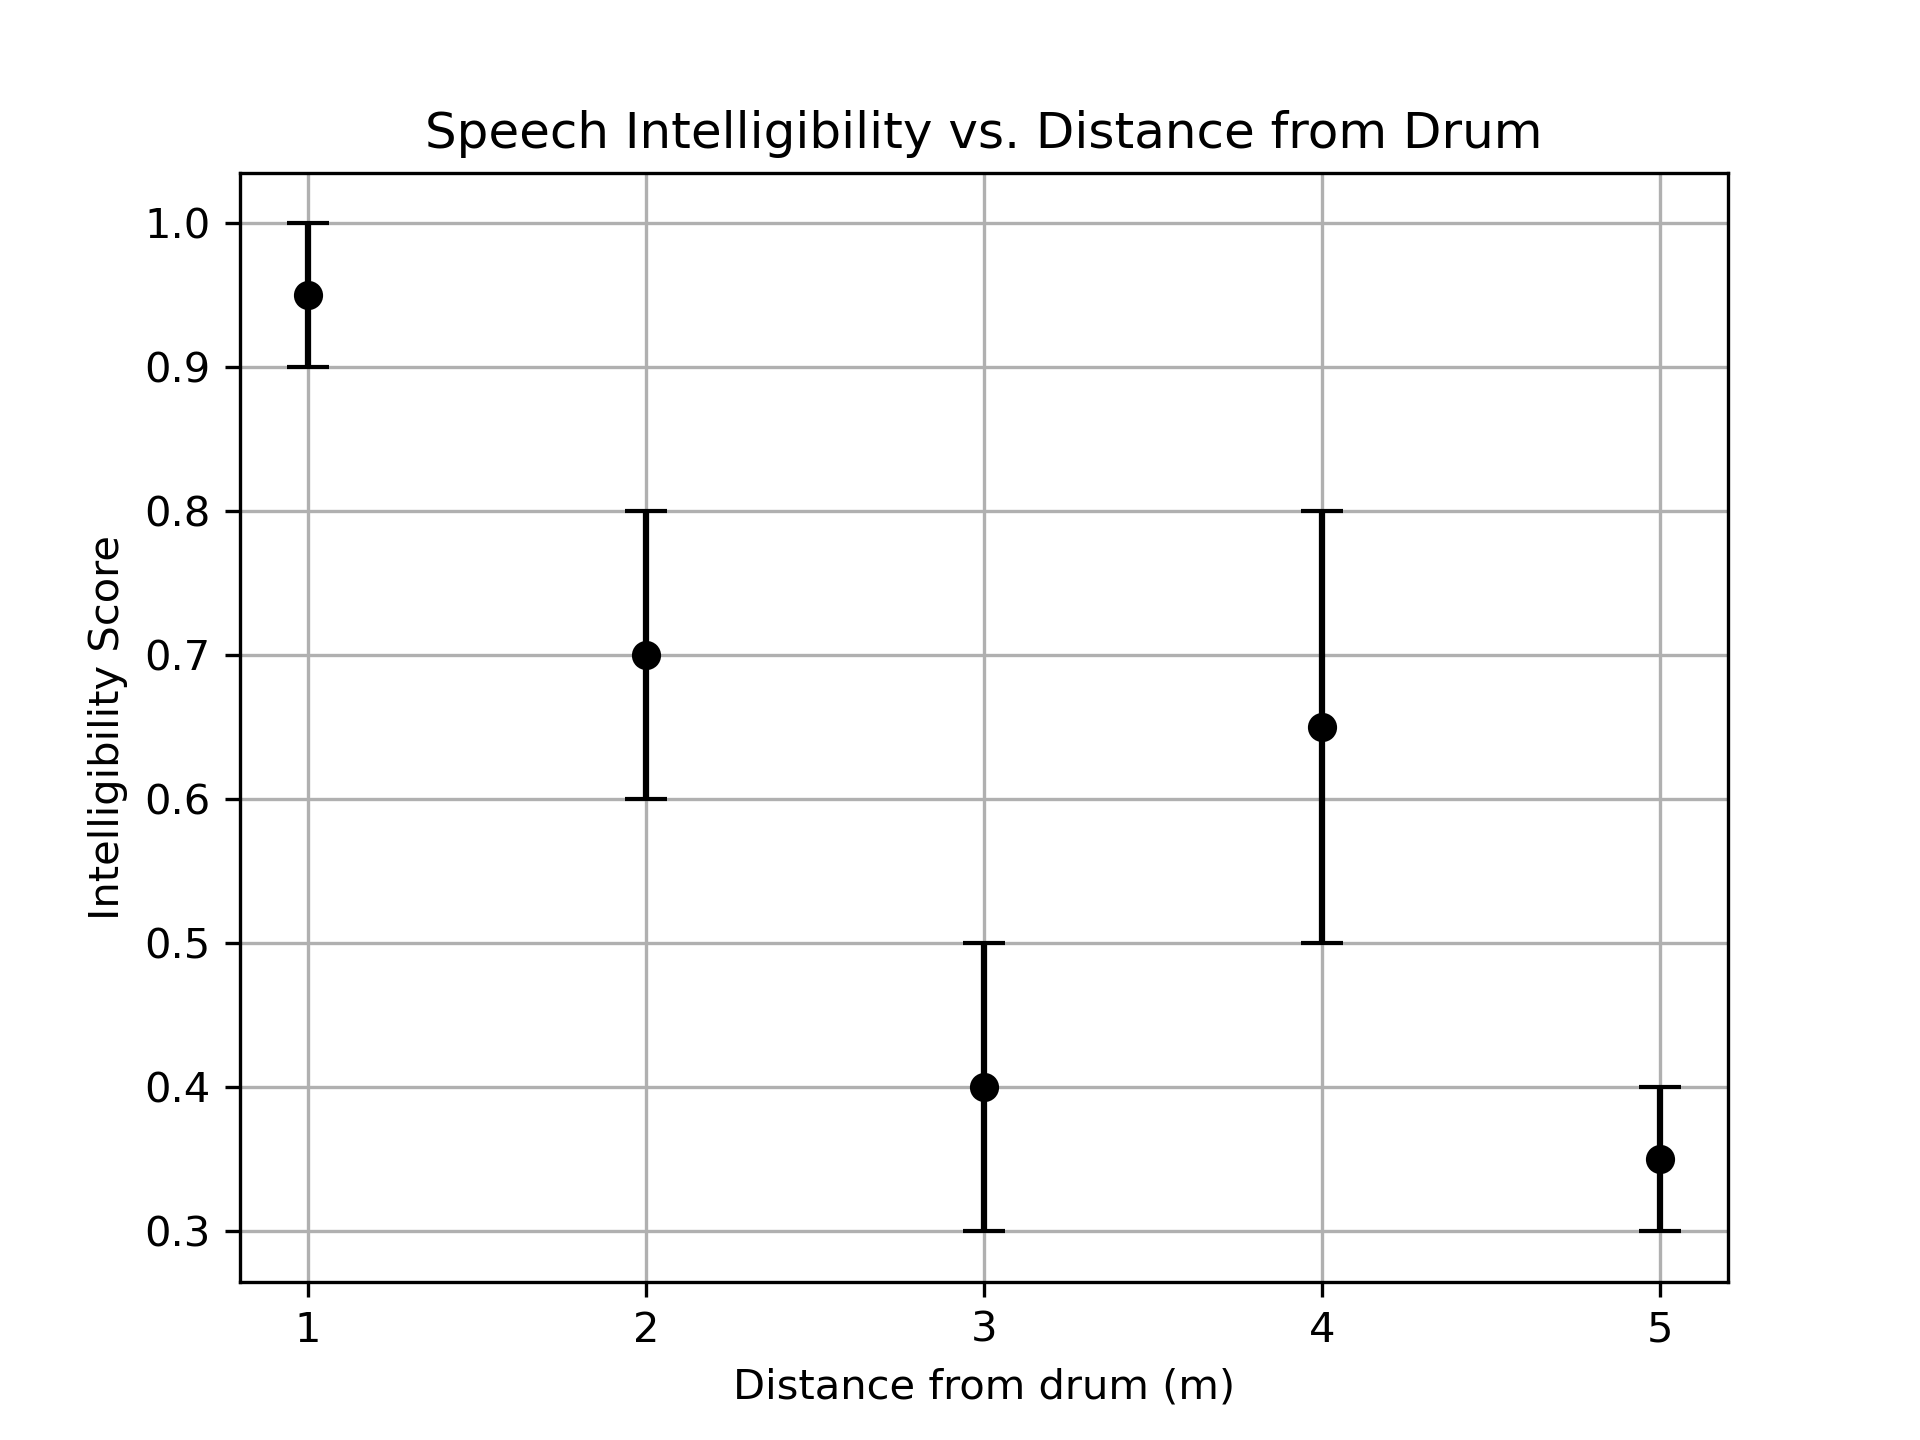
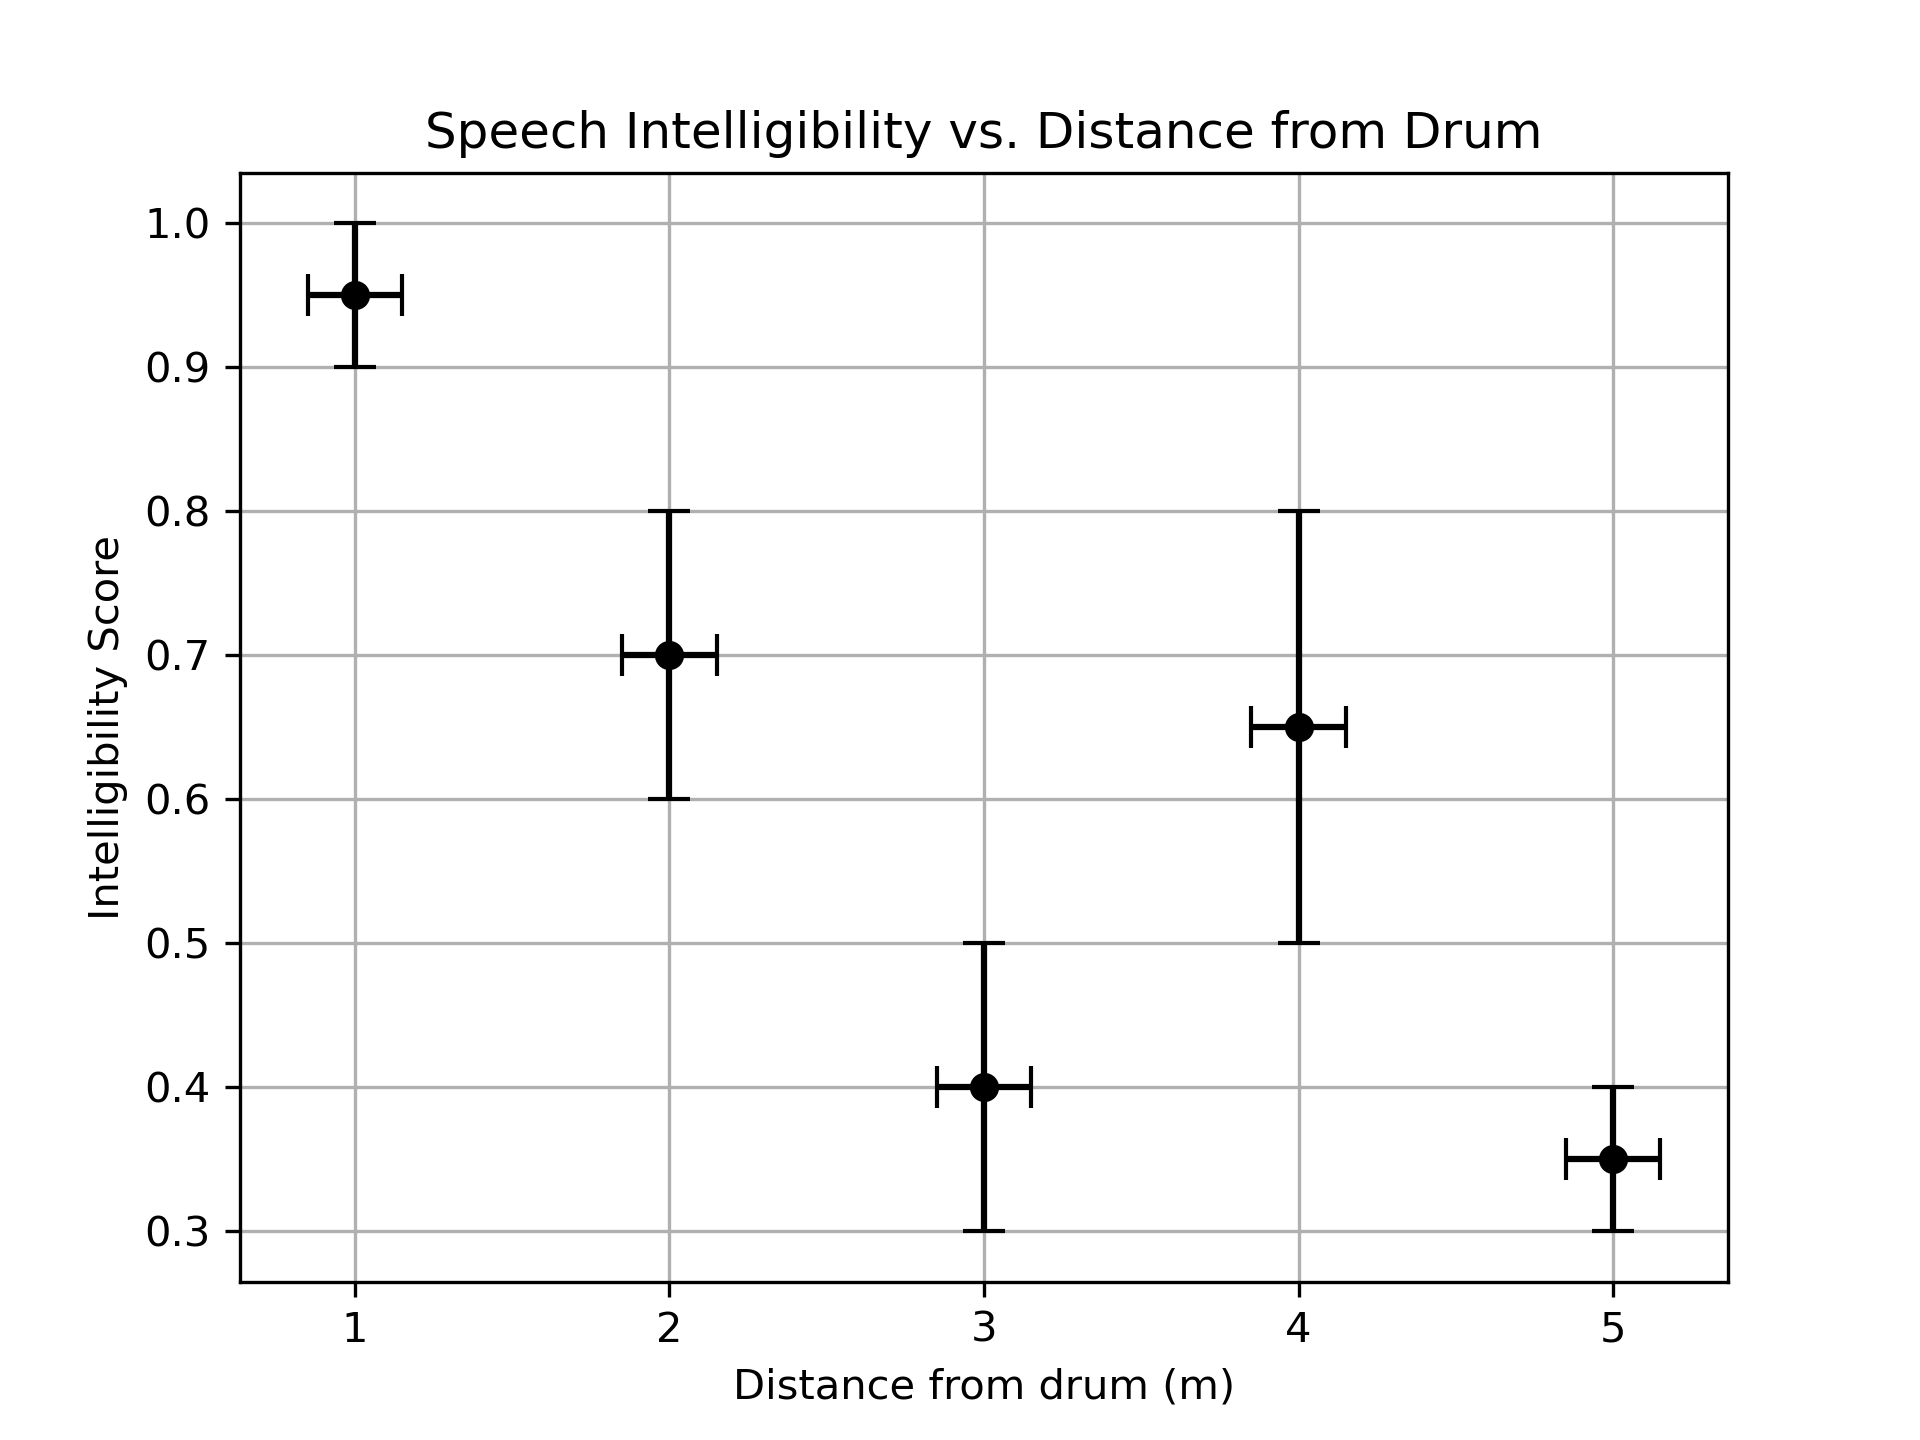
changed some plots

diff --git a/multiple_transfers.py b/multiple_transfers.py
@@ -109,12 +109,13 @@ for label, filepath in dataset.items():
     )
 
 ax.set_xscale('log')
-ax.set_xlabel('Frequency (Hz)', fontsize=18)
-ax.set_ylabel('Loudness (dB)', fontsize=18)
+ax.set_xlabel('Frequency (Hz)', fontsize=24)
+ax.set_ylabel('Loudness (dB)', fontsize=24)
 ax.set_title('Transfer Function Measurements at Various Drum Sizes',
-             fontsize=22)
+             fontsize=30)
 ax.legend(fontsize=14)
 ax.grid()
+ax.tick_params(labelsize = 20)
 
 
 fig.savefig(

diff --git a/plot_SII.py b/plot_SII.py
@@ -13,6 +13,7 @@ ax.errorbar(
     distance,
     (goed + 0.5 * vergelijkbaar) / 10,
     yerr = 0.5 * vergelijkbaar / 10,
+    xerr = 0.15,
     fmt='ok',
     capsize=5
 )
